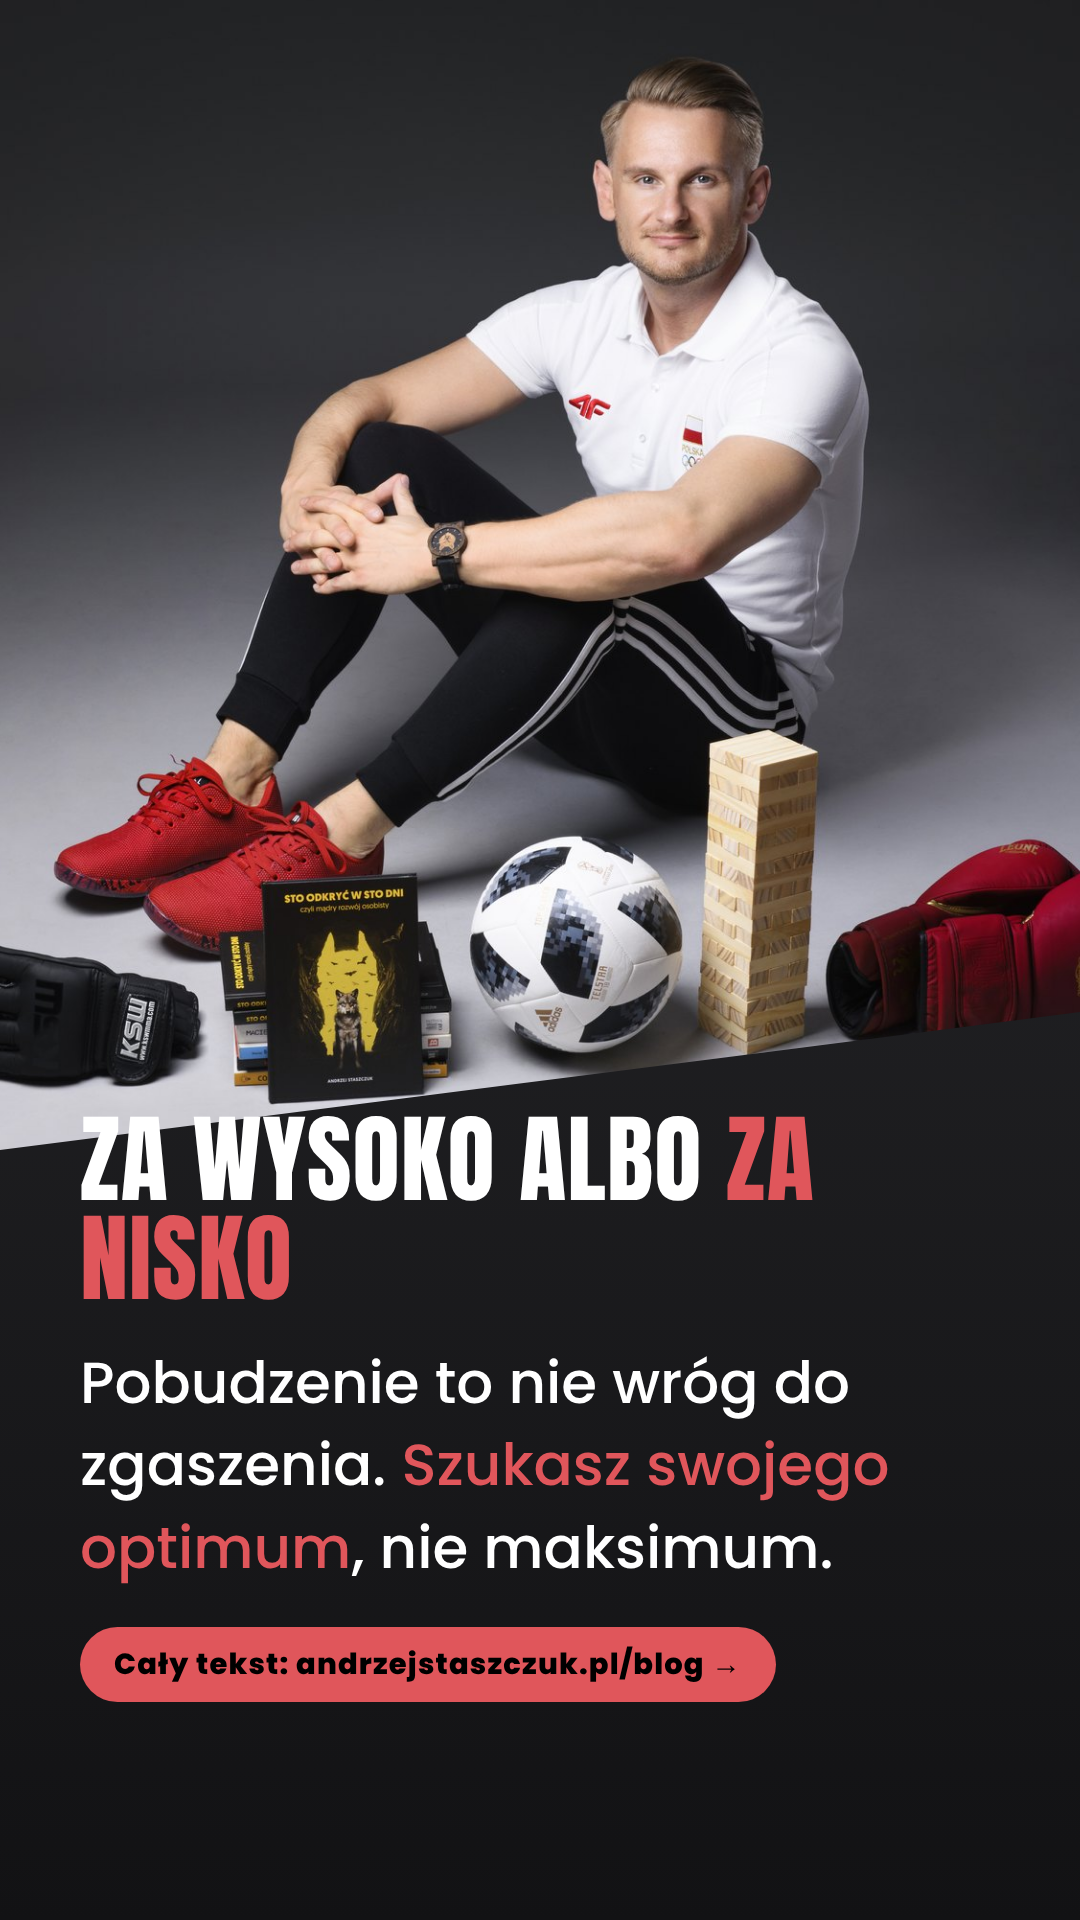
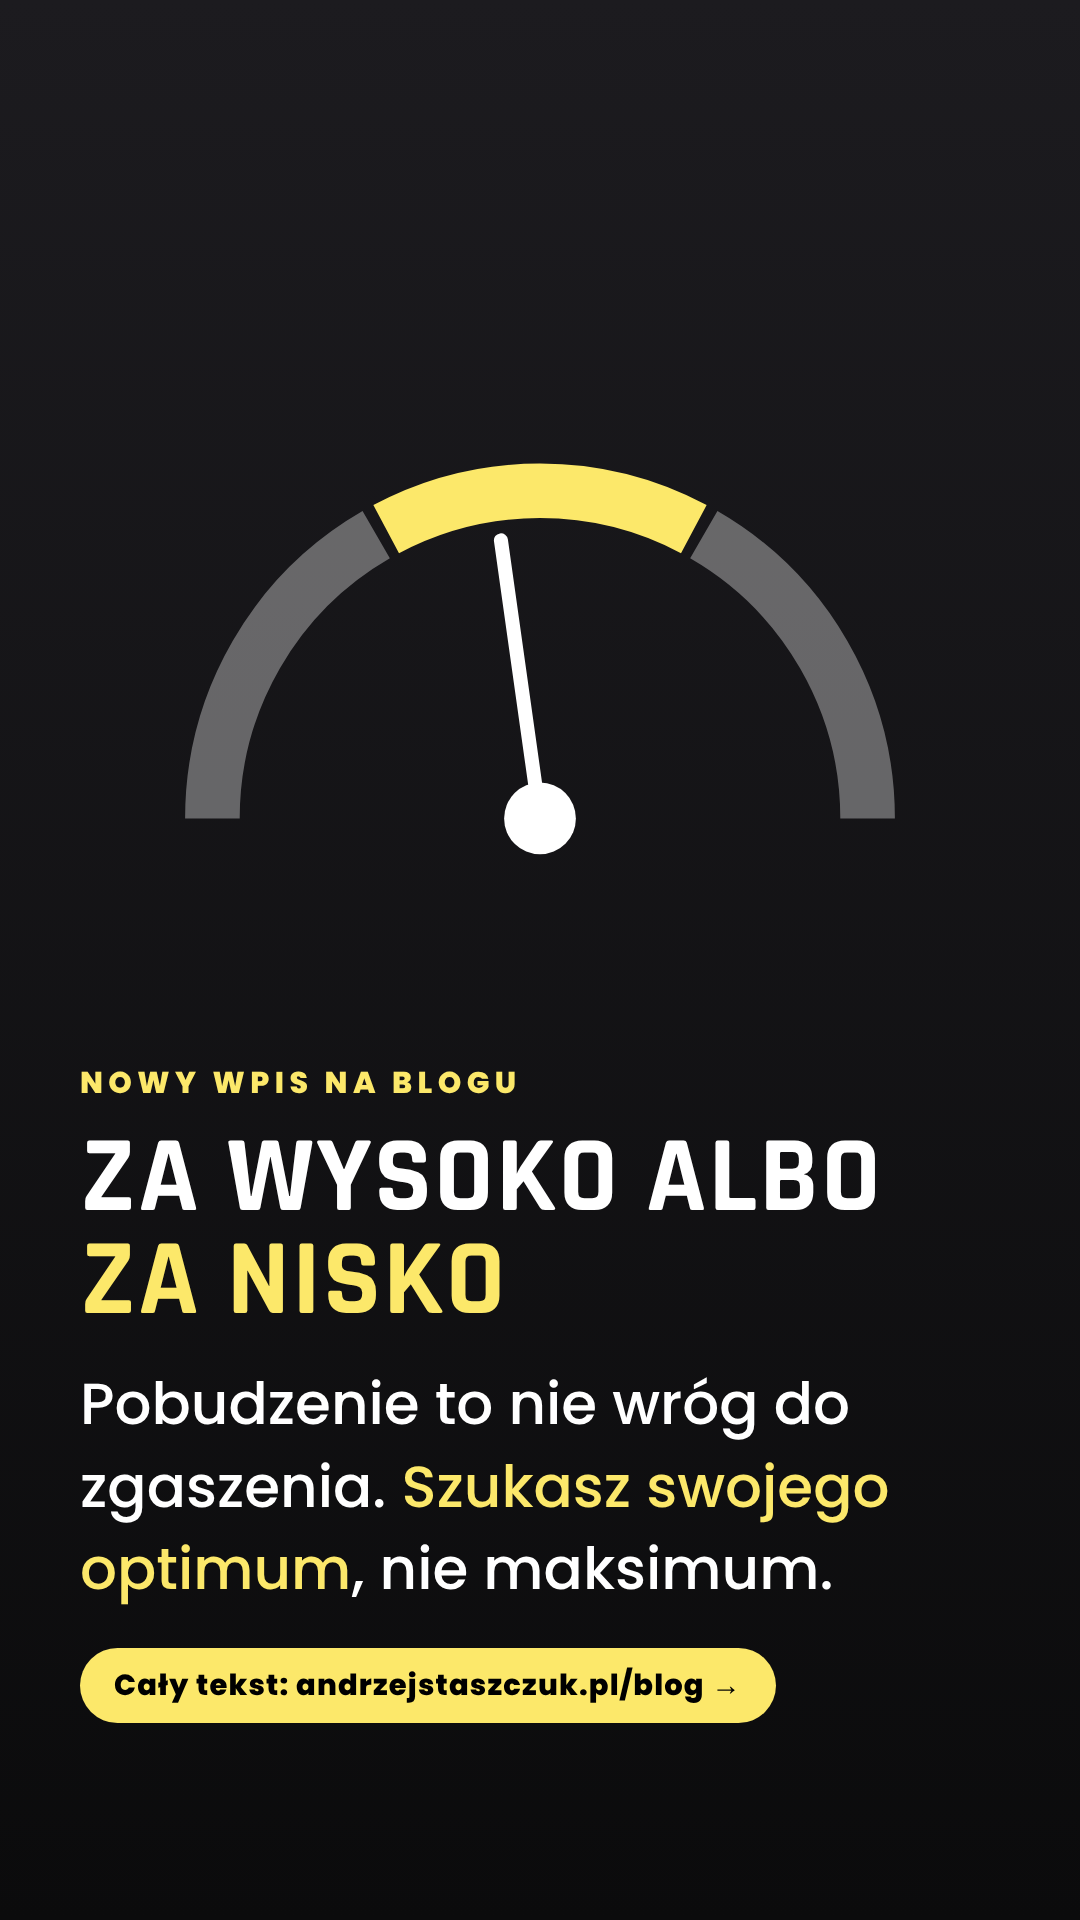
Relacje: grafiki bez zdjęcia (G1-G8, motywy SVG)
Claude-Session: https://claude.ai/code/session_016Xj3gSj2NMweQ82DxRXmM8

diff --git a/tools/motywy.js b/tools/motywy.js
@@ -1,0 +1,81 @@
+// Biblioteka ilustracji SVG do relacji bez zdjęcia (viewBox 0 0 1000 1000).
+// motyw(nazwa, kolory) -> '<svg ...>'. Kolory: {acc, ink, soft, dark, bg2}.
+// Własna ilustracja: spec.svg = wnętrze <svg> (viewBox 0 0 1000 1000) z tokenami {acc} {ink} {soft} {dark} {bg2}.
+const S = (inner, c) => `<svg xmlns="http://www.w3.org/2000/svg" viewBox="0 0 1000 1000" width="100%" height="100%">${inner
+  .replace(/\{acc\}/g, c.acc).replace(/\{ink\}/g, c.ink).replace(/\{soft\}/g, c.soft).replace(/\{dark\}/g, c.dark).replace(/\{bg2\}/g, c.bg2)}</svg>`;
+
+const arc = (cx, cy, r, a1, a2) => {
+  const p = a => [cx + r * Math.cos(a * Math.PI / 180), cy + r * Math.sin(a * Math.PI / 180)];
+  const [x1, y1] = p(a1), [x2, y2] = p(a2);
+  return `M${x1.toFixed(1)} ${y1.toFixed(1)} A${r} ${r} 0 ${Math.abs(a2 - a1) > 180 ? 1 : 0} 1 ${x2.toFixed(1)} ${y2.toFixed(1)}`;
+};
+const wave = (y, amp, len, ph) => { let d = `M-20 ${y}`; for (let x = -20; x <= 1020; x += 10) d += ` L${x} ${(y + amp * Math.sin((x / len) * 2 * Math.PI + ph)).toFixed(1)}`; return d; };
+
+const M = {
+  // skala/wskaźnik: za nisko – optimum – za wysoko
+  gauge: () => `<path d="${arc(500, 780, 420, 180, 240)}" stroke="{soft}" stroke-width="70" fill="none" opacity=".35"/>
+    <path d="${arc(500, 780, 420, 242, 298)}" stroke="{acc}" stroke-width="70" fill="none"/>
+    <path d="${arc(500, 780, 420, 300, 360)}" stroke="{soft}" stroke-width="70" fill="none" opacity=".35"/>
+    <line x1="500" y1="780" x2="${500 + 360 * Math.cos(262 * Math.PI / 180)}" y2="${780 + 360 * Math.sin(262 * Math.PI / 180)}" stroke="{ink}" stroke-width="18" stroke-linecap="round"/>
+    <circle cx="500" cy="780" r="46" fill="{ink}"/>`,
+  // tarcza i strzała – cel, koncentracja
+  target: () => [380, 290, 200, 110].map((r, i) => `<circle cx="470" cy="530" r="${r}" fill="${i % 2 ? '{bg2}' : 'none'}" stroke="${i === 3 ? '{acc}' : '{soft}'}" stroke-width="${i === 3 ? 60 : 26}" opacity="${i === 3 ? 1 : .55}"/>`).join('')
+    + `<circle cx="470" cy="530" r="34" fill="{acc}"/><line x1="470" y1="530" x2="900" y2="120" stroke="{ink}" stroke-width="16" stroke-linecap="round"/>
+    <path d="M900 120 l-70 10 l60 60 z" fill="{ink}"/><path d="M470 530 l40 -10 l-12 40 z" fill="{ink}"/>`,
+  // fale – emocje, oddech, pobudzenie
+  waves: () => [0, 1, 2, 3, 4].map(i => `<path d="${wave(300 + i * 110, 60 - i * 8, 380 + i * 60, i)}" stroke="${i === 2 ? '{acc}' : '{soft}'}" stroke-width="${i === 2 ? 22 : 12}" fill="none" opacity="${i === 2 ? 1 : .45}" stroke-linecap="round"/>`).join(''),
+  // schody – rozwój krok po kroku
+  stairs: () => [0, 1, 2, 3, 4].map(i => `<rect x="${110 + i * 160}" y="${780 - i * 130}" width="160" height="${140 + i * 130}" fill="${i === 4 ? '{acc}' : '{soft}'}" opacity="${i === 4 ? 1 : .25 + i * .12}"/>`).join('')
+    + `<circle cx="830" cy="190" r="46" fill="{ink}"/><path d="M830 240 v110" stroke="{ink}" stroke-width="24" stroke-linecap="round"/>`,
+  // kręta droga do flagi – proces, cierpliwość
+  path: () => `<path d="M150 920 C 650 860, 250 640, 600 560 S 450 300, 760 230" stroke="{soft}" stroke-width="70" fill="none" opacity=".35" stroke-linecap="round"/>
+    <path d="M150 920 C 650 860, 250 640, 600 560 S 450 300, 760 230" stroke="{ink}" stroke-width="8" stroke-dasharray="30 30" fill="none"/>
+    <line x1="760" y1="230" x2="760" y2="70" stroke="{ink}" stroke-width="14"/><path d="M766 74 h150 l-40 45 l40 45 h-150 z" fill="{acc}"/>
+    <circle cx="150" cy="920" r="30" fill="{acc}"/>`,
+  // waga – równowaga, wymagania, życie i sport
+  scale: () => `<line x1="500" y1="170" x2="500" y2="860" stroke="{ink}" stroke-width="22"/><rect x="330" y="850" width="340" height="40" rx="20" fill="{ink}"/>
+    <line x1="170" y1="330" x2="830" y2="250" stroke="{ink}" stroke-width="20" stroke-linecap="round"/><circle cx="500" cy="290" r="34" fill="{acc}"/>
+    <path d="M170 330 l-90 230 h180 z M830 250 l-90 230 h180 z" fill="none" stroke="{soft}" stroke-width="8" opacity=".7"/>
+    <path d="M60 560 a110 50 0 0 0 220 0 z" fill="{acc}"/><path d="M720 480 a110 50 0 0 0 220 0 z" fill="{soft}" opacity=".6"/>`,
+  // góra z flagą – cel, wyzwanie
+  mountain: () => `<path d="M40 900 L380 330 L520 520 L640 380 L960 900 Z" fill="{soft}" opacity=".3"/>
+    <path d="M380 330 L300 465 L350 440 L390 480 L440 430 Z" fill="{ink}" opacity=".85"/>
+    <path d="M40 900 L380 330 L520 520" stroke="{ink}" stroke-width="10" fill="none"/>
+    <line x1="380" y1="330" x2="380" y2="170" stroke="{ink}" stroke-width="12"/><path d="M386 174 h130 l-34 38 l34 38 h-130 z" fill="{acc}"/>`,
+  // dwie połowy – wewnętrzny głos, myśli, dwie strony
+  split: () => `<circle cx="500" cy="520" r="360" fill="{soft}" opacity=".25"/><path d="M500 160 a360 360 0 0 1 0 720 z" fill="{acc}"/>
+    <circle cx="500" cy="340" r="180" fill="{acc}"/><circle cx="500" cy="700" r="180" fill="{bg2}"/>
+    <circle cx="500" cy="340" r="50" fill="{bg2}"/><circle cx="500" cy="700" r="50" fill="{acc}"/>`,
+  // klepsydra – czas, cierpliwość, presja czasu
+  hourglass: () => `<rect x="250" y="110" width="500" height="40" rx="20" fill="{ink}"/><rect x="250" y="850" width="500" height="40" rx="20" fill="{ink}"/>
+    <path d="M300 150 C300 400 470 430 470 500 C470 570 300 600 300 850 H700 C700 600 530 570 530 500 C530 430 700 400 700 150 Z" fill="none" stroke="{ink}" stroke-width="14"/>
+    <path d="M360 260 H640 C620 380 520 420 500 480 C480 420 380 380 360 260 Z" fill="{soft}" opacity=".5"/>
+    <path d="M500 500 V780" stroke="{acc}" stroke-width="8" stroke-dasharray="4 14"/><path d="M330 840 C400 700 600 700 670 840 Z" fill="{acc}"/>`,
+  // puls/EKG – stres, ciało, emocje
+  pulse: () => `<path d="M20 520 H300 L360 380 L430 700 L500 220 L570 760 L630 520 H980" stroke="{acc}" stroke-width="24" fill="none" stroke-linejoin="round" stroke-linecap="round"/>
+    <path d="M20 520 H980" stroke="{soft}" stroke-width="4" opacity=".35"/>`
+    + [0, 1, 2, 3, 4, 5, 6, 7, 8].map(i => `<line x1="${60 + i * 110}" y1="200" x2="${60 + i * 110}" y2="840" stroke="{soft}" stroke-width="3" opacity=".18"/>`).join(''),
+  // kompas – kierunek, wartości, decyzje
+  compass: () => `<circle cx="500" cy="500" r="380" fill="none" stroke="{ink}" stroke-width="16"/><circle cx="500" cy="500" r="330" fill="none" stroke="{soft}" stroke-width="4" opacity=".5"/>`
+    + [0, 45, 90, 135, 180, 225, 270, 315].map(a => `<line x1="${500 + 330 * Math.cos(a * Math.PI / 180)}" y1="${500 + 330 * Math.sin(a * Math.PI / 180)}" x2="${500 + 375 * Math.cos(a * Math.PI / 180)}" y2="${500 + 375 * Math.sin(a * Math.PI / 180)}" stroke="{ink}" stroke-width="10"/>`).join('')
+    + `<path d="M500 160 L570 500 L500 840 L430 500 Z" fill="{soft}" opacity=".4"/><path d="M500 160 L570 500 H430 Z" fill="{acc}"/><circle cx="500" cy="500" r="28" fill="{ink}"/>`,
+  // słupki – postęp, wyniki, porównania
+  bars: () => [260, 390, 330, 520, 610].map((h, i) => `<rect x="${120 + i * 160}" y="${880 - h}" width="110" height="${h}" rx="14" fill="${i === 4 ? '{acc}' : '{soft}'}" opacity="${i === 4 ? 1 : .35}"/>`).join('')
+    + `<path d="M150 600 L330 470 L490 530 L650 340 L820 230" stroke="{ink}" stroke-width="12" fill="none" stroke-linecap="round"/><circle cx="820" cy="230" r="26" fill="{ink}"/><line x1="80" y1="890" x2="940" y2="890" stroke="{ink}" stroke-width="8"/>`,
+  // kropki: jedna wyróżniona – ja na tle innych, porównywanie się
+  dots: () => { let s = ''; for (let r = 0; r < 7; r++) for (let c = 0; c < 7; c++) { const on = r === 3 && c === 4; s += `<circle cx="${140 + c * 120}" cy="${140 + r * 120}" r="${on ? 52 : 30}" fill="${on ? '{acc}' : '{soft}'}" opacity="${on ? 1 : .35}"/>`; } return s; },
+  // bateria – energia, regeneracja, zmęczenie
+  battery: () => `<rect x="190" y="300" width="560" height="400" rx="50" fill="none" stroke="{ink}" stroke-width="26"/><rect x="760" y="420" width="60" height="160" rx="14" fill="{ink}"/>`
+    + [0, 1, 2, 3].map(i => `<rect x="${235 + i * 128}" y="345" width="104" height="310" rx="16" fill="${i < 2 ? '{acc}' : '{soft}'}" opacity="${i < 2 ? 1 : .2}"/>`).join('')
+    + `<path d="M520 180 L440 330 H520 L470 470" stroke="{acc}" stroke-width="0" fill="none"/>`,
+  // nawias / dymek – rozmowa, komunikacja, wewnętrzny dialog
+  bubbles: () => `<path d="M120 200 h520 a60 60 0 0 1 60 60 v260 a60 60 0 0 1 -60 60 h-330 l-110 100 v-100 h-80 a60 60 0 0 1 -60 -60 v-260 a60 60 0 0 1 60 -60 z" fill="{soft}" opacity=".3"/>
+    <path d="M420 460 h460 a60 60 0 0 1 60 60 v220 a60 60 0 0 1 -60 60 h-60 v90 l-100 -90 h-300 a60 60 0 0 1 -60 -60 v-220 a60 60 0 0 1 60 -60 z" fill="{acc}"/>
+    <circle cx="560" cy="630" r="22" fill="{dark}"/><circle cx="650" cy="630" r="22" fill="{dark}"/><circle cx="740" cy="630" r="22" fill="{dark}"/>`,
+  // lustro/odbicie – samoocena, mocne strony
+  mirror: () => `<ellipse cx="500" cy="440" rx="270" ry="350" fill="{bg2}" stroke="{ink}" stroke-width="22"/><rect x="470" y="790" width="60" height="120" fill="{ink}"/><rect x="360" y="900" width="280" height="30" rx="15" fill="{ink}"/>
+    <path d="M360 250 L460 180 M330 360 L520 220" stroke="{soft}" stroke-width="16" stroke-linecap="round" opacity=".6"/>
+    <path d="M500 560 l30 62 l68 10 l-49 48 l12 68 l-61 -32 l-61 32 l12 -68 l-49 -48 l68 -10 z" fill="{acc}"/>`,
+};
+const motyw = (name, c, custom) => S(custom || (M[name] ? M[name]() : M.waves()), c);
+module.exports = { motyw, MOTYWY: Object.keys(M) };

diff --git a/tools/metafora.js b/tools/metafora.js
@@ -2,6 +2,7 @@
 // node metafora.js spec.json out.png
 // spec: {photo:"metafory/zdjecia/9315_kolor.jpg", layout:"L1".."L12", palette:"red|black|cream|mono",
 //        font:"raj|anton|bebas|playfair", focus:0-100 (pion. położenie kadru, %), headline:"...", body:"...", kicker:"...", tilt:-4..4,
+//        art:"gauge|target|waves|..." albo svg:"<własne wnętrze svg 1000x1000 z tokenami {acc}{ink}{soft}{dark}{bg2}>" – dla layoutów G1–G8 (bez zdjęcia),
 //        cta:"..." (opcjonalnie: pasek z odesłaniem, np. do bloga), ctaPos:"inline|top|bottom" (domyślnie inline: zaraz pod tekstem), ctaStyle:"pill|bar|tag"}
 // W headline/body *słowo* = wyróżnienie kolorem akcentu. \n = nowa linia.
 const fs = require('fs'), path = require('path');
@@ -11,7 +12,8 @@ const W = 1080, H = 1920;
 const spec = JSON.parse(fs.readFileSync(process.argv[2], 'utf8'));
 const out = process.argv[3];
 const ROOT = path.join(__dirname, '..');
-const img = 'file://' + path.join(ROOT, spec.photo);
+const img = spec.photo ? 'file://' + path.join(ROOT, spec.photo) : '';
+const { motyw } = require('./motywy');
 const focus = spec.focus ?? 30;
 const tilt = spec.tilt ?? -3;
 
@@ -69,6 +71,7 @@ body{background:${P.bg};color:${P.ink};font-family:Pop,sans-serif;position:relat
 .handle{display:none;position:absolute;left:0;right:0;bottom:120px;text-align:center;font-family:Pop;font-weight:500;font-size:32px;opacity:.85}
 .ph{background-image:url('${img}');background-size:cover;background-position:50% ${focus}%}
 .bw{filter:grayscale(1) contrast(1.05)}
+.narrow .cta{white-space:normal!important;font-size:26px!important;line-height:1.3}
 .cta{position:absolute;z-index:20;font-family:Pop;font-weight:800;font-size:31px;letter-spacing:.04em;white-space:nowrap}
 `;
 const ctaHtml = () => {
@@ -132,7 +135,7 @@ const L = {
   // 11. Podział pionowy: wąskie zdjęcie po lewej, tekst po prawej (zdjęcie pionowe)
   L11: () => `<div class="ph" style="position:absolute;left:0;top:0;bottom:0;width:470px"></div>
     <div style="position:absolute;left:470px;top:0;bottom:0;width:10px;background:${P.acc}"></div>
-    <div style="position:absolute;left:530px;right:56px;top:0;bottom:0;display:flex;flex-direction:column;justify-content:center">${kick()}<div style="height:22px"></div>${H1('font-size:' + Math.round(hs * (FT.fam === 'Play' ? 1 : .8)) + 'px')}<div style="height:40px"></div>${B1('font-size:' + Math.round(bs * 1.0) + 'px')}</div>
+    <div class="narrow" style="position:absolute;left:530px;right:56px;top:0;bottom:0;display:flex;flex-direction:column;justify-content:center">${kick()}<div style="height:22px"></div>${H1('font-size:' + Math.round(hs * (FT.fam === 'Play' ? 1 : .8)) + 'px')}<div style="height:40px"></div>${B1('font-size:' + Math.round(bs * 1.0) + 'px')}</div>
     <div class="handle" style="left:480px;color:${P.ink}">@psychologsportu</div>`,
   // 12. Kartka z cytatem: zdjęcie w tle rozmyte, biała karta, kursywa Playfair
   L12: () => `<div class="ph" style="position:absolute;inset:-40px;filter:blur(14px) brightness(.55)"></div>
@@ -140,6 +143,43 @@ const L = {
     <div style="position:absolute;left:80px;right:80px;top:720px;background:${spec.palette === 'cream' ? '#fff' : P.solid};padding:70px 60px;border-radius:24px;box-shadow:0 30px 60px rgba(0,0,0,.45)">
       ${kick()}<div style="height:20px"></div>${H1()}<div style="height:30px"></div><div style="font-family:Play;font-style:italic;font-size:${bs + 6}px;line-height:1.35;color:${P.ink}">${fmt(spec.body)}</div></div>${handle('#fff')}`,
 };
+const C = { acc: P.acc, ink: P.ink, soft: P.ink, dark: P.dark, bg2: P.solid };
+const CI = { acc: P.dark, ink: P.dark, soft: P.dark, dark: P.acc, bg2: P.acc }; // na tle akcentu
+const ART = (c = C) => motyw(spec.art, c, spec.svg);
+Object.assign(L, {
+  // G1. Ilustracja w górnej części, tekst pod nią
+  G1: () => `<div style="position:absolute;left:150px;right:150px;top:210px;height:780px">${ART()}</div>
+    <div style="position:absolute;left:80px;right:80px;top:1060px">${kick()}<div style="height:22px"></div>${H1()}<div style="height:30px"></div>${B1()}</div>`,
+  // G2. Ogromna, przygaszona ilustracja w tle, tekst wyśrodkowany w pionie
+  G2: () => `<div style="position:absolute;left:-260px;top:300px;width:1600px;height:1600px;opacity:.16;transform:rotate(${tilt * 3}deg)">${ART()}</div>
+    <div style="position:absolute;left:90px;right:90px;top:0;bottom:0;display:flex;flex-direction:column;justify-content:center">${kick()}<div style="height:26px"></div>${H1('font-size:' + Math.round(hs * 1.1) + 'px')}<div style="width:160px;height:10px;background:${P.acc};margin:46px 0"></div>${B1()}</div>`,
+  // G3. Pełne tło w kolorze akcentu, ciemny tekst i ilustracja
+  G3: () => `<style>body{background:${P.acc}!important}.g3 .hl{color:${P.dark};text-decoration:underline;text-decoration-thickness:.12em;text-underline-offset:.12em}.g3 .cta{background:${P.dark}!important;color:${P.acc}!important}.g3 .kick{color:${P.dark}!important}</style>
+    <div class="g3" style="position:absolute;inset:0;color:${P.dark}">
+    <div style="position:absolute;left:80px;right:80px;top:210px">${kick(P.dark)}<div style="height:22px"></div>${H1('color:' + P.dark)}</div>
+    <div style="position:absolute;left:240px;right:240px;top:${hlen > 20 ? 640 : 560}px;height:600px">${ART(CI)}</div>
+    <div style="position:absolute;left:80px;right:80px;top:${hlen > 20 ? 1280 : 1200}px">${B1('color:' + P.dark)}</div></div>`,
+  // G4. Ukośny blok z ilustracją u góry, tekst na dole
+  G4: () => `<div style="position:absolute;left:0;right:0;top:0;height:1100px;background:${P.solid};filter:brightness(.8);clip-path:polygon(0 0,100% 0,100% 82%,0 100%)"></div>
+    <div style="position:absolute;left:${tilt > 0 ? 260 : 80}px;width:740px;top:190px;height:740px">${ART()}</div>
+    <div style="position:absolute;left:80px;right:80px;top:1140px">${kick()}<div style="height:22px"></div>${H1()}<div style="height:30px"></div>${B1()}</div>`,
+  // G5. Wzór z kropek, mała ilustracja i karta z tekstem
+  G5: () => `<div style="position:absolute;inset:0;background-image:radial-gradient(${P.ink}22 3px,transparent 4px);background-size:44px 44px"></div>
+    <div style="position:absolute;left:330px;right:330px;top:200px;height:420px">${ART()}</div>
+    <div style="position:absolute;left:80px;right:80px;top:690px;background:${spec.palette === 'cream' ? '#fff' : P.solid};padding:70px 60px;border-radius:28px;border-top:14px solid ${P.acc};box-shadow:0 30px 60px rgba(0,0,0,.35)">
+      ${kick()}<div style="height:20px"></div>${H1()}<div style="height:30px"></div>${B1()}</div>`,
+  // G6. Tekst u góry po lewej, wielka ilustracja wychodząca z prawego dolnego rogu
+  G6: () => `<div style="position:absolute;right:-240px;bottom:-200px;width:1150px;height:1150px;opacity:.9">${ART()}</div>
+    <div style="position:absolute;left:80px;right:110px;top:220px">${kick()}<div style="height:24px"></div>${H1('font-size:' + Math.round(hs * 1.05) + 'px')}<div style="height:36px"></div>${B1('max-width:820px')}</div>`,
+  // G7. Gruba ramka, ilustracja w środku, tekst wyśrodkowany pod nią
+  G7: () => `<div style="position:absolute;inset:200px 54px 230px;border:14px solid ${P.acc};border-radius:8px"></div>
+    <div style="position:absolute;left:260px;right:260px;top:290px;height:560px">${ART()}</div>
+    <div style="position:absolute;left:120px;right:120px;top:900px;text-align:center">${kick()}<div style="height:20px"></div>${H1()}<div style="height:30px"></div>${B1()}</div>`,
+  // G8. Podział pionowy: panel w kolorze akcentu z ilustracją po lewej, tekst po prawej
+  G8: () => `<div style="position:absolute;left:0;top:0;bottom:0;width:470px;background:${P.acc}"></div>
+    <div style="position:absolute;left:35px;width:400px;top:740px;height:440px">${ART(CI)}</div>
+    <div class="narrow" style="position:absolute;left:530px;right:56px;top:0;bottom:0;display:flex;flex-direction:column;justify-content:center">${kick()}<div style="height:22px"></div>${H1('font-size:' + Math.round(hs * (FT.fam === 'Play' ? 1 : .8)) + 'px')}<div style="height:40px"></div>${B1()}</div>`,
+});
 if (!L[spec.layout]) throw new Error('Nieznany layout ' + spec.layout);
 const html = `<!doctype html><html><head><meta charset="utf-8"><style>${css}</style></head><body>${L[spec.layout]()}${ctaHtml()}</body></html>`;
 render(html, out, W, H).then(() => console.log('ok', out));
